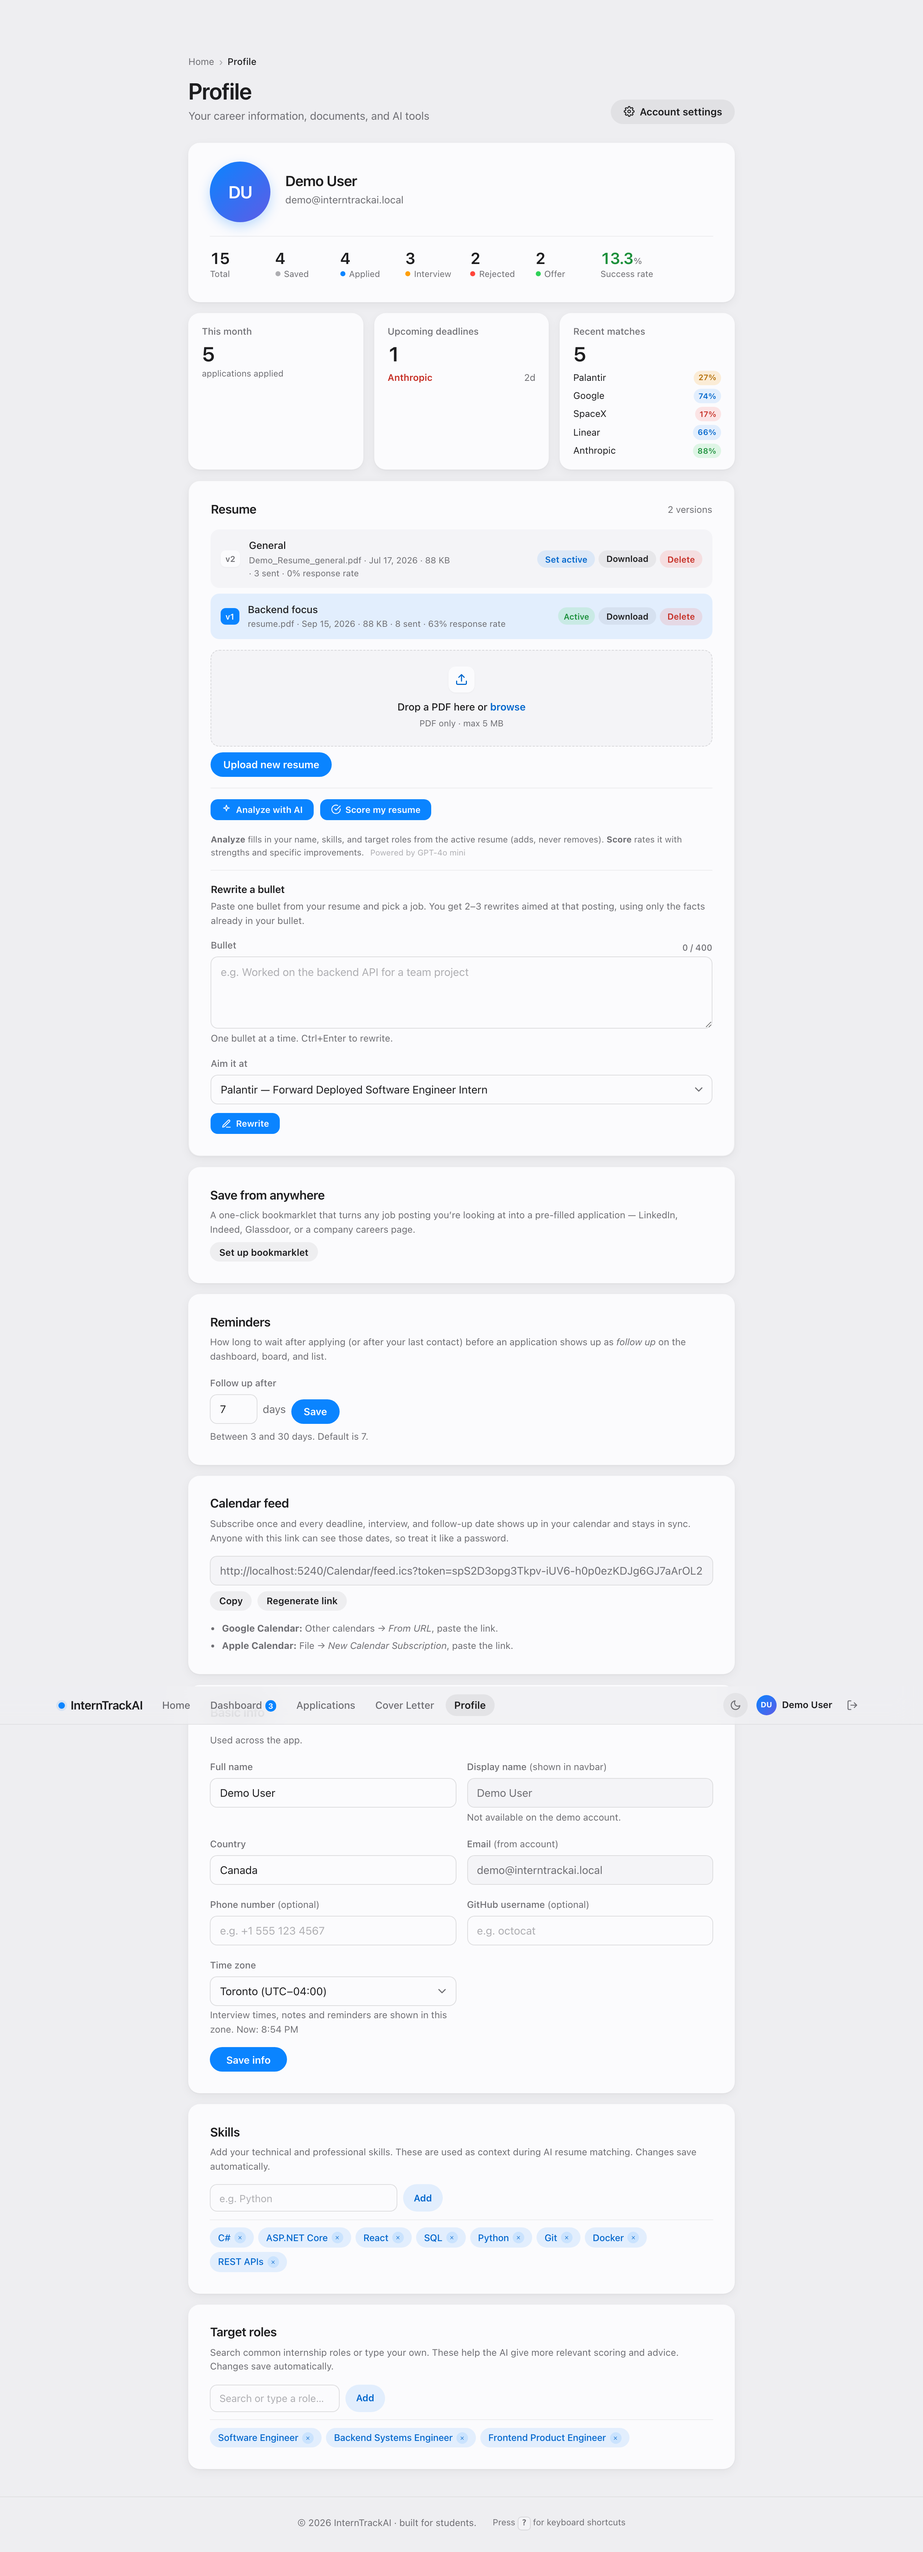
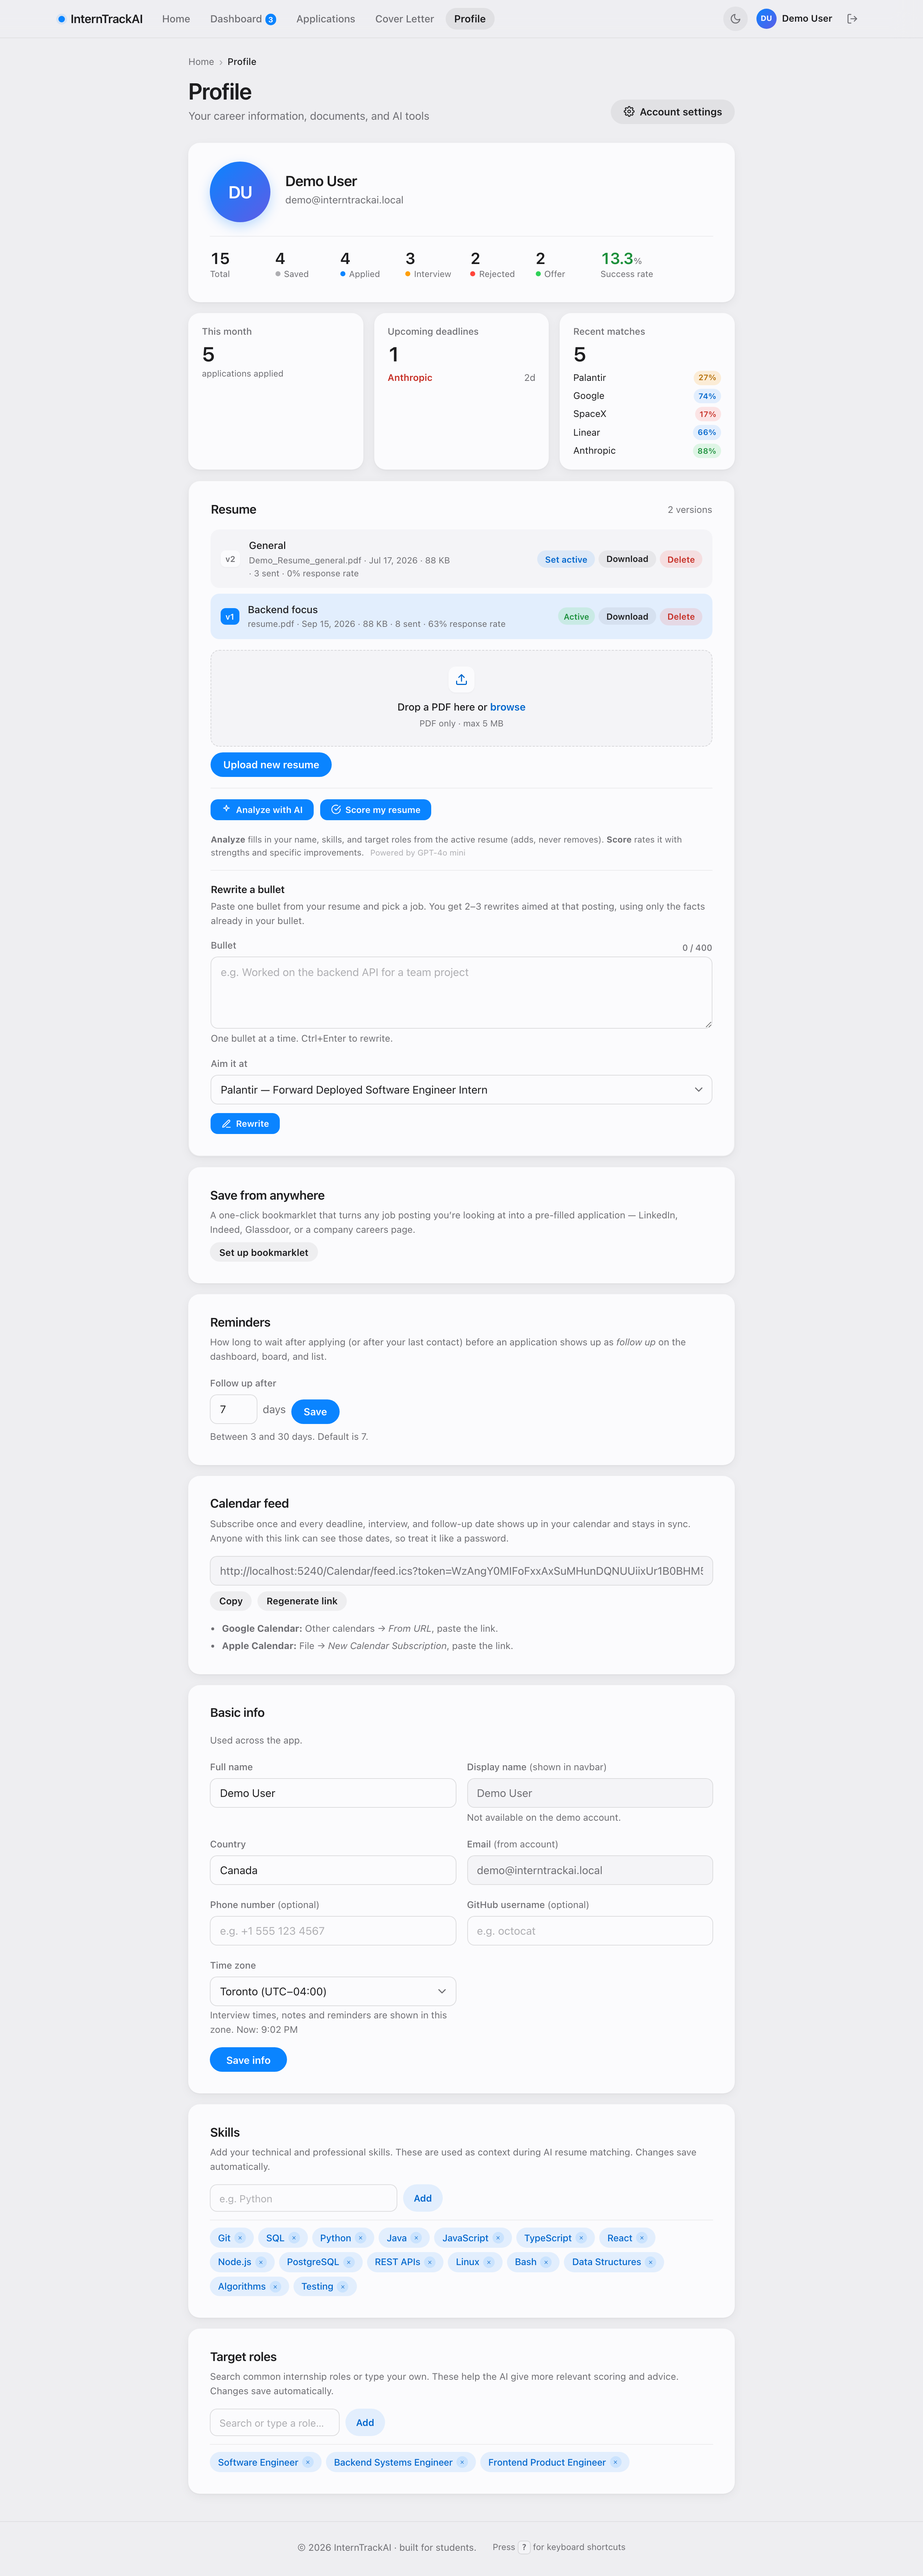
Seed demo profile name and skills
The seeder restored target roles and the display name but left the rest of the
profile as registration created it, so the live demo's Profile page showed the
literal placeholder "Your name" on the identity card, an empty Full name and
Country, and no skill chips at all — on the one page a visitor opens to see
what the app knows about them.

It now restores the name, country and skills alongside the roles, replaced
rather than merged so a visitor's edits don't accumulate across resets.

The skills are not arbitrary. Every one is drawn from the matching lists of the
seeded applications — they are exactly what the seeded match scores claim the
demo resume demonstrates — and none appears in any missing list, so the profile
cannot contradict the skill gap card sitting beside it on the dashboard. That
turned up one pre-existing inconsistency in the seed itself: Palantir listed
TypeScript as missing while four other applications matched it. Palantir now
asks for Scala instead, and no skill is both matched and missing anywhere.

Left deliberately empty: phone number and GitHub username, both marked optional
on the page and neither looking broken. Seeding a GitHub username would make
the public demo fetch and display a real person's repositories.

Also reattaches the EnsureProfileAsync doc comment, which an earlier commit
orphaned above ClockForAsync, and refreshes the profile screenshot so it shows
what the seeder actually produces rather than fields I had filled in by hand
[…]

diff --git a/Services/DemoSeeder.cs b/Services/DemoSeeder.cs
@@ -22,7 +22,7 @@ public sealed record DemoResetResult(bool UserFound, string? Email, int Applicat
 /// due, upcoming interview) is recreated along with a few notes and one saved letter. Two resume
 /// versions are guaranteed ("Backend focus", the active one, and "General") and the applications
 /// are split between them so the dashboard's Resume performance card shows a real comparison. The profile's
-/// target roles are set to <see cref="TargetRoles"/> and its display name to <see cref="DisplayName"/>, and the seeded missing skills give the skill gap card a clear
+/// target roles are set to <see cref="TargetRoles"/>, its skills to <see cref="Skills"/> and its display name to <see cref="DisplayName"/>, and the seeded missing skills give the skill gap card a clear
 /// top skill (Docker, 6 of 11), a mid tier (Go, C++) and a tail of singles.
 /// Used by <see cref="DemoResetService"/> nightly and by <c>POST /Admin/ResetDemo</c> on demand.
 /// </summary>
@@ -110,11 +110,25 @@ public class DemoSeeder
     /// <summary>Display name the demo profile is restored to on every reset (the Manage and Profile pages refuse changes to it).</summary>
     public const string DisplayName = "Demo User";
 
+    /// <summary>Name shown on the profile card. Without it the card reads "Your name", which looks unfinished.</summary>
+    public const string FullName = "Demo User";
+
+    /// <summary>Matches the Toronto locations and default time zone the rest of the seed uses.</summary>
+    public const string Country = "Canada";
+
     /// <summary>
-    /// Resets the kept profile's fixed fields (creating the row if missing): target roles to exactly <see cref="TargetRoles"/>,
-    /// replaced rather than merged so roles a visitor added, or an earlier seed's roles, never add pills to the split; and the
-    /// display name to <see cref="DisplayName"/>, a backstop in case a change ever gets past the demo account guard.
+    /// Skills the demo profile is restored to. Every one of these appears in the <c>matching</c> list of at
+    /// least one seeded application — they are exactly what the seeded match scores claim the demo resume
+    /// demonstrates — and none appears in any <c>missing</c> list, so the profile can never contradict the
+    /// skill gap card sitting beside it on the dashboard. Add a skill here only alongside a seeded match
+    /// that justifies it.
     /// </summary>
+    public static readonly string[] Skills =
+    {
+        "Git", "SQL", "Python", "Java", "JavaScript", "TypeScript", "React", "Node.js",
+        "PostgreSQL", "REST APIs", "Linux", "Bash", "Data Structures", "Algorithms", "Testing"
+    };
+
     /// <summary>
     /// The demo user's own "today". The seeded applications are all relative dates ("applied 9 days ago"),
     /// and every rule that reads them back — <see cref="ReminderService"/>, the Attention card, the board
@@ -131,6 +145,13 @@ public class DemoSeeder
         return UserClock.For(zoneId);
     }
 
+    /// <summary>
+    /// Resets the kept profile's fixed fields (creating the row if missing): target roles to exactly
+    /// <see cref="TargetRoles"/> and skills to exactly <see cref="Skills"/> — replaced rather than merged, so
+    /// roles or skills a visitor added, or an earlier seed's, never accumulate across resets; the display name
+    /// to <see cref="DisplayName"/>, a backstop in case a change ever gets past the demo account guard; and the
+    /// name and country the profile card would otherwise show as placeholder text.
+    /// </summary>
     private async Task EnsureProfileAsync(string userId, CancellationToken ct)
     {
         var profile = await _db.UserProfiles.FirstOrDefaultAsync(p => p.UserId == userId, ct);
@@ -141,7 +162,10 @@ public class DemoSeeder
         }
 
         profile.TargetRolesJson = ProfileTags.ToJson(TargetRoles);
+        profile.SkillsJson      = ProfileTags.ToJson(Skills);
         profile.DisplayName     = DisplayName;
+        profile.FullName        = FullName;
+        profile.Country         = Country;
         await _db.SaveChangesAsync(ct);
     }
 
@@ -369,7 +393,7 @@ public class DemoSeeder
             deadlineInDays: -35, appliedDaysAgo: 75, salary: "$50/hr", link: "https://www.palantir.com/careers/fdse-intern",
             description: "Forward Deployed Software Engineers embed with customers to solve their hardest data problems using Palantir Foundry. Interns build data pipelines and applications in Python, TypeScript, and SQL, and present directly to customer stakeholders.\n\nRequirements: strong programming and communication skills, comfort with ambiguity, willingness to travel. Preferred: experience with data engineering, Spark, Docker, or building customer-facing applications.",
             score: 27, summary: "Weak fit. Your technical skills partially overlap, but the role is primarily about data engineering at scale and customer-facing delivery, neither of which appears in your experience.",
-            matching: new[] { "Python", "SQL", "Communication" }, missing: new[] { "Spark", "Data Engineering", "Customer Delivery", "TypeScript", "Docker" }),
+            matching: new[] { "Python", "SQL", "Communication" }, missing: new[] { "Spark", "Data Engineering", "Customer Delivery", "Scala", "Docker" }),
     };
 
     private static List<ApplicationNote> BuildNotes(string userId, List<JobApplication> apps)

diff --git a/tests/InternTrackAI.Tests/Integration/DemoResetTests.cs b/tests/InternTrackAI.Tests/Integration/DemoResetTests.cs
@@ -40,9 +40,10 @@ public class DemoResetTests
             db.JobApplications.AddRange(visitorApp, otherApp);
             await db.SaveChangesAsync();
             db.ApplicationNotes.Add(new ApplicationNote { UserId = demoId, JobApplicationId = visitorApp.Id, Text = "stale note" });
-            // Registration already created the profile row; give it a name we can check survives the reset.
+            // Registration already created the profile row; dirty every field the reset is supposed to restore.
             var profile = await db.UserProfiles.SingleOrDefaultAsync(p => p.UserId == demoId) ?? db.UserProfiles.Add(new UserProfile { UserId = demoId }).Entity;
             profile.FullName = "Demo Person";
+            profile.Country  = "Nowhere";
             profile.DisplayName = "Renamed By A Visitor";   // slipped past the guard somehow: the reset must put it back
             profile.SkillsJson = "[\"C#\"]";
             profile.TargetRolesJson = "[\"Frontend Engineering Intern\",\"Visitor Role\"]";   // an earlier seed's role + a visitor's
@@ -87,10 +88,14 @@ public class DemoResetTests
             // Profile and the active resume survive; the visitor's extra resume version is gone and the
             // seeder's own second version ("General") takes its place, with the applications split between them.
             var demoProfile = await db.UserProfiles.SingleAsync(p => p.UserId == demoId);
-            Assert.Equal("Demo Person", demoProfile.FullName);
             Assert.Equal(DemoSeeder.DisplayName, demoProfile.DisplayName);
             Assert.Equal("Demo User", demoProfile.DisplayName);
+            // The profile row survives the purge, but every field the seeder owns is restored rather than
+            // left as a visitor edited it — otherwise the page shows placeholder text for a name and no skills.
+            Assert.Equal(DemoSeeder.FullName, demoProfile.FullName);
+            Assert.Equal(DemoSeeder.Country,  demoProfile.Country);
             Assert.Equal(DemoSeeder.TargetRoles, ProfileTags.FromJson(demoProfile.TargetRolesJson));   // replaced, not merged
+            Assert.Equal(DemoSeeder.Skills, ProfileTags.FromJson(demoProfile.SkillsJson));             // the visitor's "C#" is gone
             var resumes = await db.ResumeVersions.Where(r => r.UserId == demoId).OrderBy(r => r.Id).ToListAsync();
             Assert.Equal(2, resumes.Count);
             Assert.DoesNotContain(resumes, r => r.OriginalFileName == "visitor.pdf");

diff --git a/CLAUDE.md b/CLAUDE.md
@@ -126,7 +126,7 @@ OpenAI callers are marked **[AI]**. All read `OpenAI:ApiKey` and treat blank or 
 - `CsvImportParser.cs` — pure parser for the Export column layout; skips rows without company/role, drops duplicates. `JobApplicationsController.ImportCsv`.
 - `UploadStorage.cs` — singleton; root from `UPLOADS_PATH` (default `./uploads`). `photos/{userId}.{ext}` (public at `/uploads/photos`), `resumes/{userId}/{guid}.pdf` (private). `Resolve` rejects rooted/escaping stored paths and tolerates legacy `uploads/` prefixes.
 - `UserDataPurger.cs` — deletes all of a user's rows and files; `keepProfile`/`keepActiveDocuments` for the demo reset. Used by `Areas/Identity/Pages/Account/Manage/DeletePersonalData.cshtml.cs` and DemoSeeder.
-- `DemoSeeder.cs` — purges the demo user (keeps profile + active resume), ensures two resumes ("Backend focus" active, "General"), sets `TargetRoles` to exactly Software Engineer / Backend Systems Engineer / Frontend Product Engineer and `DisplayName` to "Demo User" (backstop for the display-name guard), seeds 15 applications, notes, 1 cover letter, 3 pending suggestions. AdminController, DemoResetService.
+- `DemoSeeder.cs` — purges the demo user (keeps profile + active resume), ensures two resumes ("Backend focus" active, "General"), and restores every profile field it owns rather than leaving a visitor's edit: `TargetRoles` (Software Engineer / Backend Systems Engineer / Frontend Product Engineer), `Skills`, `DisplayName` "Demo User" (backstop for the display-name guard), `FullName` and `Country`. Seeds 15 applications, notes, 1 cover letter, 3 pending suggestions. **`Skills` must stay consistent with the seeded match data**: every entry appears in some application's `matching` list and none in any `missing` list, so the profile can't contradict the skill gap card. `DemoResetTests` pins that the fields are replaced, not merged. AdminController, DemoResetService.
 - `DemoResetService.cs` — hosted service; daily at `Demo:ResetTimeUtc` (default 04:00) only if `Demo:AutoReset` is true and `Demo:Email` is set; logs which at startup.
 - `EmailSender.cs` — `ConsoleEmailSender` writes Identity emails to the log. Registered for **all** environments (see section 11).
 - `GitHubService.cs` — unauthenticated GitHub REST, up to 6 public non-fork repos for the profile; 10 s timeout, null on any failure.

diff --git a/docs/deployment.md b/docs/deployment.md
@@ -45,10 +45,12 @@ environment, so `OpenAI__ApiKey` here is `OpenAI:ApiKey` in `appsettings.json` o
 | `Admin__Email` | — | The one account allowed to call `POST /Admin/ResetDemo` for a manual reseed. Unset disables the endpoint, which is never advertised in the UI |
 
 The reseed purges the demo account and rebuilds it: 15 realistic applications, notes, three pending inbox
-suggestions and a saved cover letter. The profile and active resume are kept, a second labelled resume
+suggestions and a saved cover letter. The profile row and active resume are kept, a second labelled resume
 version is added, and the applications are split between the two so the Resume performance card has a real
-comparison to show. Target roles and display name are reset, and the seeded missing skills give the skill
-gap card a clear top skill, a middle tier and a tail.
+comparison to show. Every profile field the seeder owns — name, country, display name, skills and target
+roles — is restored rather than left as a visitor edited it, and the seeded skills are exactly the ones the
+seeded match scores imply, so the profile never contradicts the skill gap card. The seeded missing skills
+give that card a clear top skill, a middle tier and a tail.
 
 Sign in as `Admin__Email` and open `/Admin/ResetDemo` to run it by hand and check the result before turning
 the nightly job on. The startup log states whether auto-reset is armed.
